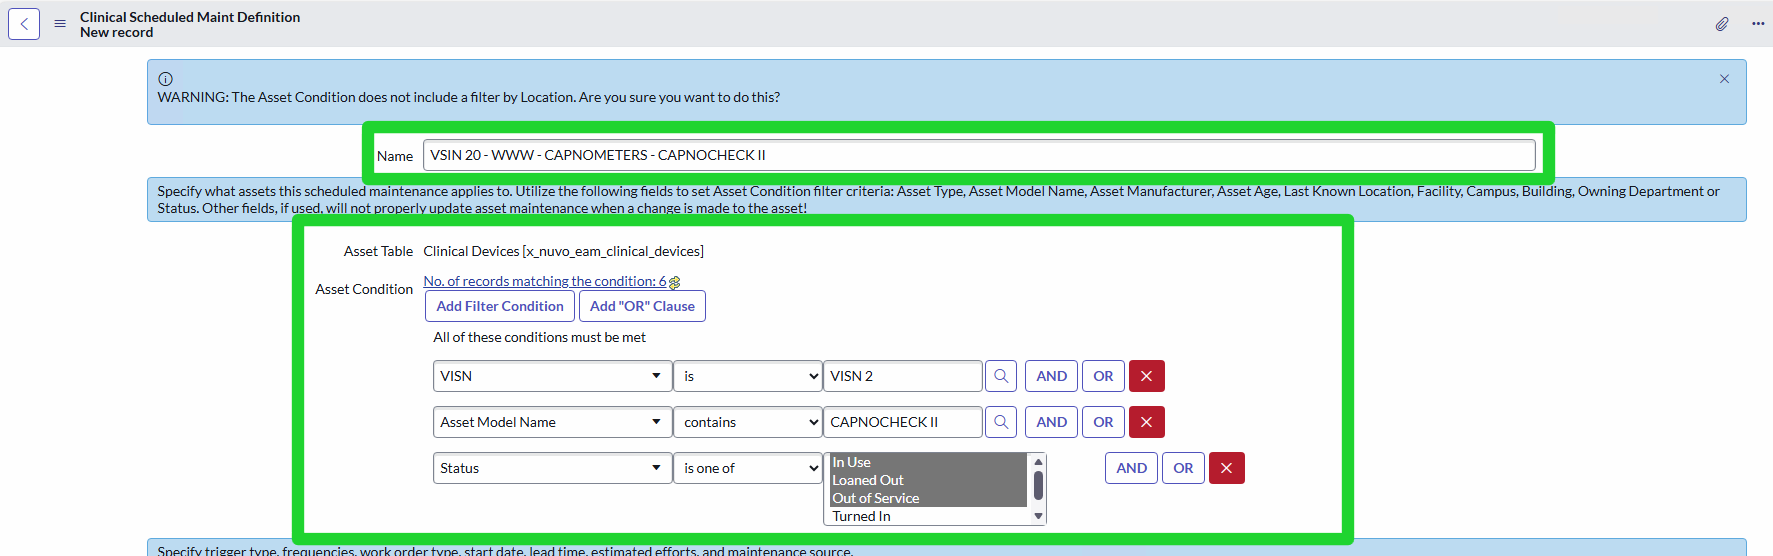
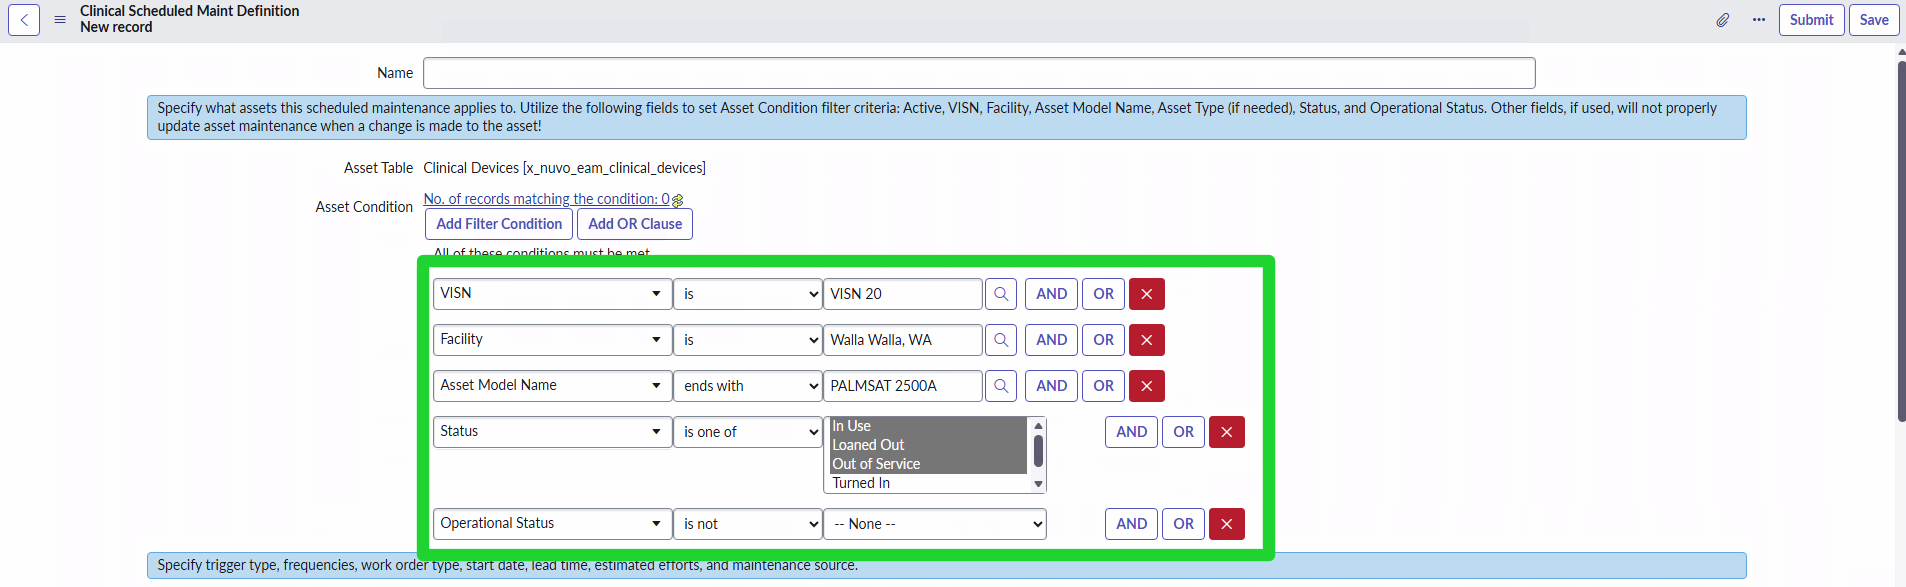
Update

diff --git a/index.html b/index.html
@@ -128,6 +128,25 @@
 
     .answer { display: none; margin-top: 10px; padding: 10px; background-color: var(--table-alt-row-bg); border-radius: 4px; }
 
+    .banner {
+  background-color: #fff3cd;
+  color: #856404;
+  padding: 16px 20px;
+  margin-bottom: 24px;
+  border: 1px solid #ffeaa7;
+  border-radius: 6px;
+  font-size: 13.5pt;
+  line-height: 1.45;
+  text-align: center;
+  font-weight: 500;
+}
+
+body.dark .banner {
+  background-color: #5c4a00;
+  color: #ffeaa7;
+  border-color: #ffeaa7;
+}
+
         input[type="text"],
     select {
       background-color: var(--input-bg);
@@ -165,6 +184,9 @@
   </section>
 
   <main class="container">
+    <div class="banner">
+    Screenshots in these labs may not reflect exactly what you are seeing in your test environment, but the concepts and steps learned in the lectures can still be applied.
+  </div>
     <section class="lab-section active" data-lab="User Guide">
       <h2>User Guide</h2>
       <p>Welcome to the HTM151: Nuvolo for Managers Labs! This guide is designed to help you navigate through the various labs included in this course. Each lab focuses on a specific aspect of using Nuvolo, providing hands-on experience and practical knowledge.</p>
@@ -240,14 +262,14 @@
         </li>
         <li>We're going to create a new employee rate. Fill out the following fields on the Employee Rate form:
             <ul>
-                <li><strong>Employee:</strong> One of the technicians names</li>
+                <li><strong>Employee:</strong> Kevin Jeter, Kevin.Jeter@va.gov</li>
                 <li><strong>Position Entry Date:</strong> Today's Date</li>
-                <li><strong>Facility:</strong> Your Facility</li>
+                <li><strong>Facility:</strong> Walla Walla, WA</li>
             </ul>
             <img src="Lab-Images/lab1-14.png" alt="Employee Rate Form" style="max-width: 100%;">
         </li>
         <li>Submit the Employee Rate.</li>
-        <li>Repeat for the other technician</li>
+        <li>Repeat for another technician</li>
         <li>Search and find the first employee rate you just created using the Employee search (Hint: type *Jeter)
             <img src="Lab-Images/lab1-15.png" alt="Search Employee Rate" style="max-width: 100%;">
         </li>
@@ -395,14 +417,14 @@
         </li>
         <li>Fill out the following fields:
           <ul>
-            <li><strong>Name:</strong> VISN 20 - WWW - CAPNOMETERS - CAPNOCHECK II</li>
+            <li><strong>Name:</strong> Leave this blank! Nuvolo automatically generates the name based on the other fields.</li>
             <ul>
-              <li><strong>Note:</strong> Replace VISN with your correct VISN and "WWW" with your three-letter HTM Program TLA</li>
             </ul>
-            <li><strong>VISN:</strong> Choose your VISN</li>
-            <li><strong>Facility:</strong> Remove this Filter for our Labs. You'll want this when creating them normally though!</li>
-            <li><strong>Model Name:</strong> CAPNOCHECK II</li>
+            <li><strong>VISN:</strong> VISN 20</li>
+            <li><strong>Facility:</strong> Walla Walla, WA</li>
+            <li><strong>Model Name:</strong> ends with PALMSAT 2500A</li>
             <li><strong>Status:</strong> In Use, Loaned Out, Out of Service</li>
+            <li><strong>Operational Status:</strong> is not NONE</li>
           </ul>
           <img src="Lab-Images/lab3-3.png" alt="PM Definition Form" style="max-width: 100%;">
         </li>
